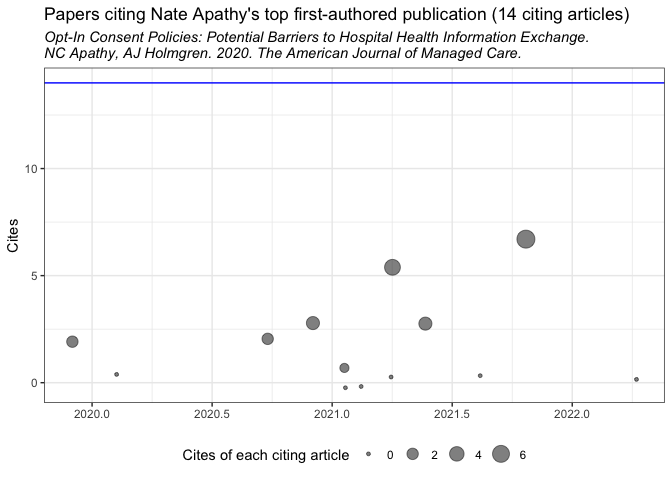
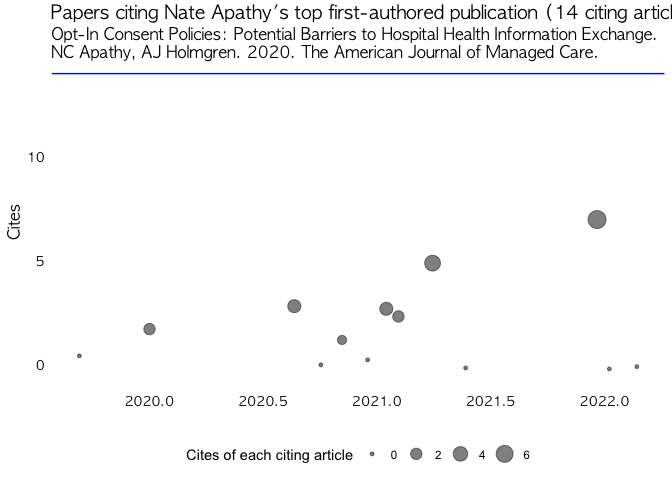
adding theme

diff --git a/README.md b/README.md
@@ -105,14 +105,26 @@ nca_gs$citing_article_data %>%
                        ". ",plotmet$year,
                        ". ",plotmet$journal,"."),
        size="Cites of each citing article",
-       x=NULL,y="Cites") +
-  theme_bw() +
-  theme(plot.subtitle = element_text(face="italic"),
-        legend.position = "bottom")
+       x=NULL,y="Cites") -> p
+
+p + theme_nca()
 ```
 
 ![](README_files/figure-gfm/cite_plot-1.png)<!-- -->
 
-## `theme_nca()` ggplot2 theme
+## `theme_nca()`
 
-This is a placeholder for a custom `ggplot2` theme, in development.
+This is a minimally customized `ggplot2` theme that changes the font to
+Apple Gothic, strips the grid lines and background, changes a few font
+sizes, and sticks the legend at the bottom. I built this so I don’t have
+to constantly change these things with every plot I make. For example,
+here’s the plot above but using the default `ggplot2` theme,
+`theme_gray()`.
+
+``` r
+p
+```
+
+![](README_files/figure-gfm/def_plot-1.png)<!-- -->
+
+Not **that** different, but just a little more pleasant to look at.
